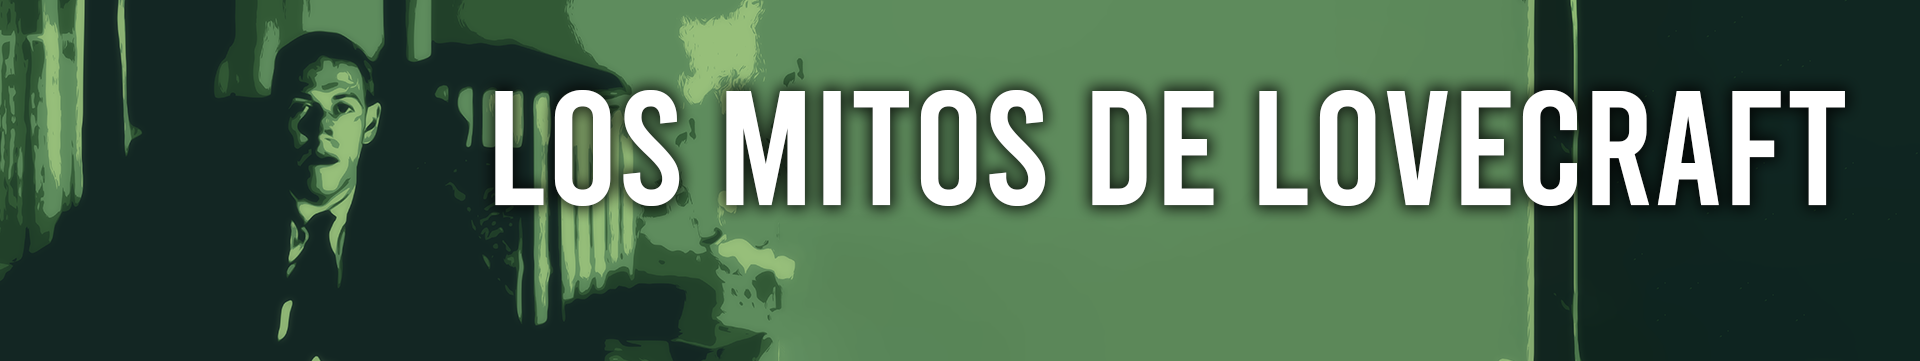
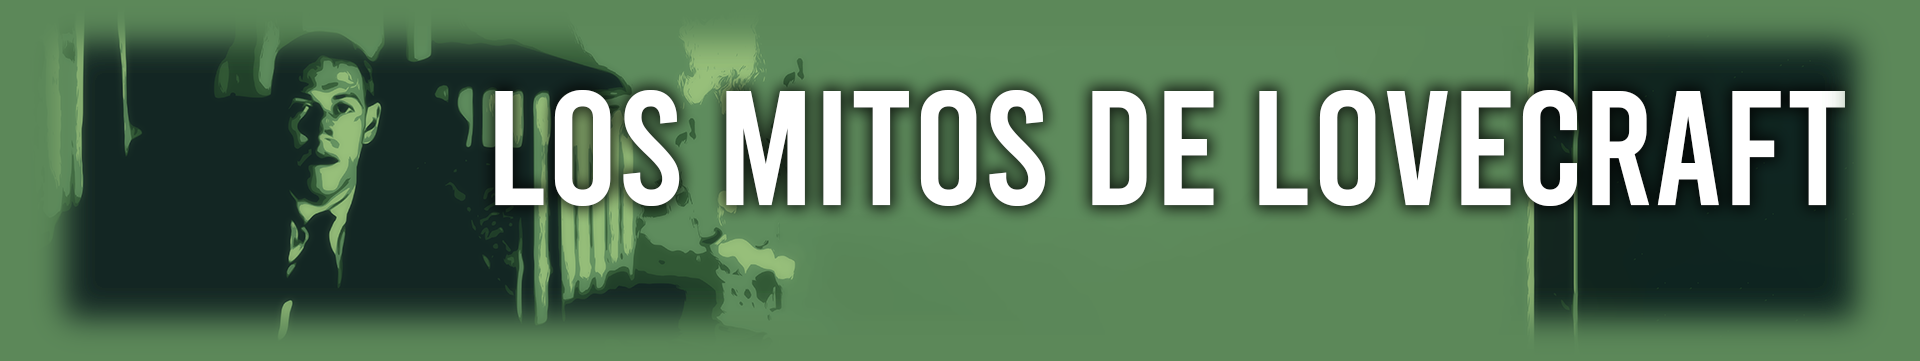
added new paddings, new datos, new sommer, change relatos, delete montañas

Changed region(s): [[0.0, 0.0, 0.4062, 1.0], [0.7812, 0.0, 1.0, 1.0], [0.3438, 0.0, 0.4062, 0.1524]]

diff --git a/css/lovecraft.css b/css/lovecraft.css
@@ -6,10 +6,10 @@ body{
 }
 
 header{
-	background-color: darkseagreen;
+	background-color: #5c8859;
 	text-align: center;
-	padding-top: 0px;
-	padding-bottom: 0px;
+	padding-top: 10px;
+	padding-bottom: 10px;
 }
 
 h1, h2{
@@ -24,6 +24,7 @@ header h1{
 header img{
 	
 	width:  800px;
+
 	
 }
 
@@ -31,8 +32,11 @@ main{
 	max-width: 800px;
 	margin: 0 auto;
 	padding: 100px;
+	padding-top: 20px;
 	background-color: PapayaWhip;
 }
+
+
 
 main img{
 	max-width: 100%;
@@ -40,7 +44,7 @@ main img{
 
 h2{
 	font-size: 35px;
-	color: darkseagreen;
+	color: #5c8859;
 	margin: 40px 0 10px;
 }
 
@@ -48,22 +52,20 @@ a{
 	color: white;
 }
 a:hover{
-	color: darkgreen;
+	color: #d0b0b0;
 }
 
 footer{
-	background-color: darkseagreen;
+	background-color: #5c8859;
 	text-align: center;
-	padding: 50px;
+	padding: 14px;
 }
 
 footer p{
 	margin: 0;
 }
 
-footer a{
-	color: black;
-}
+
 
 p.caption{
 	color: gray;
@@ -120,7 +122,7 @@ p.caption{
     flex-direction: column;
     justify-content: center;
     align-items: center;
-    background: DarkSlateGray;
+    background: #5c8859;
     
     color: #fff;
     box-shadow: rgba(3, 8, 20, 0.1) 0px 0.15rem 0.5rem, rgba(2, 8, 20, 0.1) 0px 0.075rem 0.175rem;
@@ -140,3 +142,33 @@ p.caption{
     box-shadow: rgba(2, 8, 20, 0.1) 0px 0.35em 1.175em, rgba(2, 8, 20, 0.08) 0px 0.175em 0.5em;
     transform: translateY(-3px) scale(1.1);
  }
+
+* {
+	box-sizing: border-box;
+}
+
+.column {
+  float: left;
+  width: 33.33%;
+  padding: 5px;
+}
+
+.column1 {
+  float: left;
+  width: 25%;
+  padding: 5px;
+  padding-top: 30px;
+}
+
+.column2 {
+  float: left;
+  width: 75%;
+  padding: 5px;
+}
+
+
+.row::after {
+  content: "";
+  clear: both;
+  display: table;
+}

diff --git a/datos.html b/datos.html
@@ -26,7 +26,18 @@
 
 	<main>
 		
-		<p>Howard Phillips Lovecraft (1890-1937) fue un escritor estadounidense de relatos de terror y ciencia ficción. Se le considera un gran innovador del cuento de terror, al que aportó una mitología propia —los Mitos de Cthulhu—, desarrollada en colaboración con otros autores, actualmente en vigencia.Su obra constituye un clásico del horror cósmico, una línea narrativa que se aparta de las tradicionales historias de terror sobrenatural —satanismo, fantasmas—, incluyendo elementos de ciencia ficción como, por ejemplo, razas alienígenas, viajes en el tiempo o existencia de otras dimensiones.</p>
+		<div class="row">
+
+			<div class="column1">
+    			<img src="img/lovecraft.png" alt="lovecraft" style="width:100%">
+  			</div>
+
+  			<div class="column2">
+    			<p>Howard Phillips Lovecraft (1890-1937) fue un escritor estadounidense de relatos de terror y ciencia ficción. Se le considera un gran innovador del cuento de terror, al que aportó una mitología propia —los Mitos de Cthulhu—, desarrollada en colaboración con otros autores, actualmente en vigencia. Su obra constituye un clásico del horror cósmico, una línea narrativa que se aparta de las tradicionales historias de terror sobrenatural —satanismo, fantasmas—, incluyendo elementos de ciencia ficción como, por ejemplo, razas alienígenas, viajes en el tiempo o existencia de otras dimensiones.</p>
+  			</div>
+  			
+  			
+		</div>
 
 	</main>
 

diff --git a/relatos.html b/relatos.html
@@ -38,13 +38,10 @@
 		</ol> -->
 
 		<section class="basic-grid">
-        	<div class="card"><a target="_blank" href="cthulhu.html">1. La llamada de Cthulhu</a></div>
-        	<div class="card"><a target="_blank" href="dunwich.html">2. El horror de Dunwich</a></div>
-        	<div class="card"><a target="_blank" href="susurro.html">3. El que susurra en la oscuridad</a></div>
-        	<div class="card"><a target="_blank" href="montañas.html">4. En las montañas de la locura</a></div>
-        	<div class="card">La sombra sobre Innsmouth</div>
-        	<div class="card">La sombra de otro tiempo</div>
-        	<div class="card">The Beast in the Cave</div>
+        	<div class="card"><a href="cthulhu.html">1. La llamada de Cthulhu</a></div>
+        	<div class="card"><a href="dunwich.html">2. El horror de Dunwich</a></div>
+        	<div class="card"><a href="susurro.html">3. El que susurra en la oscuridad</a></div>
+	     	<div class="card">The Beast in the Cave</div>
         	<div class="card">The Alchemist</div>
         	<div class="card">The Tomb</div>
         	<div class="card">Dagon</div>

diff --git a/sommer.html b/sommer.html
@@ -25,8 +25,16 @@
 	</header>
 
 	<main>
-		
-		N. P. Sommer es una escritora costarricense de terror y ciencia ficción, que incursiona en el horror cósmico desde una perspectiva distinta a las más comunes y famosas que se han realizado hasta el momento. Una de sus obras es La orden que vino del cielo, una historia que combina el horror cósmico con la melancolía y la culpa de una mente desesperada.
+				
+		<div class="row">
+  			<div class="column2">
+    			<p>N. P. Sommer es una escritora costarricense de terror y ciencia ficción, que incursiona en el horror cósmico desde una perspectiva distinta a las más comunes y famosas que se han realizado hasta el momento. Una de sus obras es "La Orden que vino del Cielo", una historia que combina el horror cósmico con la melancolía y la culpa de una mente desesperada.</p>
+  			</div>
+  			<div class="column1">
+    			<img src="img/order.png" alt="orderbook" style="width:100%">
+  			</div>
+  			
+		</div>
 
 	</main>
 

diff --git a/cthulhu.html b/cthulhu.html
@@ -4,6 +4,9 @@
 	<meta charset="utf-8">
 	<title>La llamada de Cthulhu</title>
 	<link rel="icon" href="img/octo.png">
+	<link rel="preconnect" href="https://fonts.googleapis.com">
+	<link rel="preconnect" href="https://fonts.gstatic.com" crossorigin>
+	<link href="https://fonts.googleapis.com/css2?family=Josefin+Sans:wght@600&display=swap" rel="stylesheet">
 	<link rel="stylesheet" type="text/css" href="css/lovecraft.css">
 </head>
 
@@ -236,8 +239,11 @@ Cthulhu existe también, supongo, en ese refugio de piedra que le sirve de abrig
 
 <h2>FIN</h2>
 
-<a target="_blank" href="index.html">Volver al menu principal</a>
 </main>
+
+<footer>
+		<a href="relatos.html">Volver al menu principal</a>
+	</footer>
 
 </body>
 </html>

diff --git a/susurro.html b/susurro.html
@@ -4,6 +4,9 @@
 	<meta charset="utf-8">
 	<title>El que susurra en la oscuridad</title>
 	<link rel="icon" href="img/octo.png">
+	<link rel="preconnect" href="https://fonts.googleapis.com">
+	<link rel="preconnect" href="https://fonts.gstatic.com" crossorigin>
+	<link href="https://fonts.googleapis.com/css2?family=Josefin+Sans:wght@600&display=swap" rel="stylesheet">
 	<link rel="stylesheet" type="text/css" href="css/lovecraft.css">
 </head>
 <body>
@@ -14,8 +17,12 @@
 
 	<main>
 		<p>Por agregar...</p>
-		<a target="_blank" href="index.html">Volver al menu principal</a>
+		
 	</main>
+
+	<footer>
+		<a href="relatos.html">Volver al menu principal</a>
+	</footer>
 	
 </body>
 </html>

diff --git a/dunwich.html b/dunwich.html
@@ -4,6 +4,9 @@
 	<meta charset="utf-8">
 	<title>El horror de Dunwich</title>
 	<link rel="icon" href="img/octo.png">
+	<link rel="preconnect" href="https://fonts.googleapis.com">
+	<link rel="preconnect" href="https://fonts.gstatic.com" crossorigin>
+	<link href="https://fonts.googleapis.com/css2?family=Josefin+Sans:wght@600&display=swap" rel="stylesheet">
 	<link rel="stylesheet" type="text/css" href="css/lovecraft.css">
 </head>
 <body>
@@ -14,8 +17,12 @@
 
 	<main>
 		<p>Por agregar...</p>
-		<a target="_blank" href="index.html">Volver al menu principal</a>
+		
 	</main>
+
+	<footer>
+		<a href="relatos.html">Volver al menu principal</a>
+	</footer>
 	
 </body>
 </html>

diff --git a/index.html b/index.html
@@ -12,7 +12,7 @@
 <body>
 
 	<header>
-		<img src="img/banner2.png">
+		<img src="img/banner2.png" alt="lovecraft banner">
 		
 		<div class="header-menu">
 			<div class="header-menu-item"><a href="index.html">Inicio</a></div>
